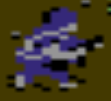
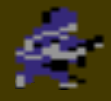
commando-moves

diff --git a/other/commando64/c64.js b/other/commando64/c64.js
@@ -1,6 +1,8 @@
 var Commodore64 = /** @class */ (function () {
     function Commodore64() {
         this.blink = true;
+        this.welcomeScreenTimeoutCounter = Commodore64.welcomeScreenTimeoutCounterMax;
+        this.commandoTimeoutCounter = Commodore64.commandoTimeoutCounterMax;
         this.tableContentHeader = [
             "&nbsp",
             "<center>    &nbsp**** COMMODORE 64 BASIC V2 ****&nbsp    </center>",
@@ -83,16 +85,63 @@ var Commodore64 = /** @class */ (function () {
             this.lastRenderTime = currentTime;
         }
         console.log("blink = " + this.blink);
-        requestAnimationFrame(function () { return _this.blinker(); });
+        this.animationFrameID = requestAnimationFrame(function () { return _this.blinker(); });
+        this.welcomeScreenTimeoutCounter--;
+        if (this.welcomeScreenTimeoutCounter < 0) {
+            cancelAnimationFrame(this.animationFrameID);
+            this.initGame();
+        }
     };
     Commodore64.prototype.drawKomandos = function () {
         var komandosCell = document.getElementById('row5col2');
         komandosCell.innerHTML = "<img src = \"resources/komandos.png\"/>";
         komandosCell.setAttribute("rowspan", "12");
     };
+    Commodore64.prototype.initLoader = function () {
+        var html = this.generateHtml();
+        var div = document.getElementById('commodore64');
+        var topBorderDiv = document.getElementById('top-border');
+        var bottomBorderDiv = document.getElementById('bottom-border');
+        div.innerHTML = html;
+        topBorderDiv.innerHTML = this.generateBorder();
+        bottomBorderDiv.innerHTML = this.generateBorder();
+        this.drawKomandos();
+        this.initBlinker();
+        this.blinker();
+    };
+    Commodore64.prototype.initGame = function () {
+        this.commandoTimeoutCounter = Commodore64.commandoTimeoutCounterMax;
+        var board = document.getElementById('commodore64');
+        board.innerHTML = "<img src = 'resources/board.png' style='width: 90%; height: 90%;'></img>";
+        board.innerHTML += "<img id='commando' src = 'resources/U.PNG'  style='position: absolute; top: 64%; left: 47%; z-index: 1;'></img>";
+        var commandoImg = document.getElementById('commando');
+        board.addEventListener('mousemove', function (event) {
+            var x = event.clientX;
+            var y = event.clientY;
+            var commandoX = 460;
+            var commandoY = 520;
+            if (x == commandoX)
+                x++;
+            var angle = Math.atan((y - commandoY) / (x - commandoX));
+            var url = '';
+            if (Math.abs(angle) > 1) {
+                url = "resources/U.PNG";
+            }
+            else if (angle > 0) {
+                url = "resources/LU.PNG";
+            }
+            else {
+                url = "resources/RU.PNG";
+            }
+            commandoImg.setAttribute("src", url);
+            console.log("Mouse is hovering over the board at coordinates (".concat(x, ", ").concat(y, ") angle = ").concat(angle));
+        });
+    };
     Commodore64.FPS = 2;
     Commodore64.BLUE = "#352879";
     Commodore64.LIGHTBLUE = "#6c5eb5";
+    Commodore64.welcomeScreenTimeoutCounterMax = 120;
+    Commodore64.commandoTimeoutCounterMax = 500;
     return Commodore64;
 }());
 var width = 800;
@@ -100,13 +149,4 @@ var height = 600;
 window.innerWidth = width;
 window.innerHeight = height;
 var commodore64 = new Commodore64();
-var html = commodore64.generateHtml();
-var div = document.getElementById('commodore64');
-var topBorderDiv = document.getElementById('top-border');
-var bottomBorderDiv = document.getElementById('bottom-border');
-div.innerHTML = html;
-topBorderDiv.innerHTML = commodore64.generateBorder();
-bottomBorderDiv.innerHTML = commodore64.generateBorder();
-commodore64.drawKomandos();
-commodore64.initBlinker();
-commodore64.blinker();
+commodore64.initLoader();

diff --git a/other/commando64/c64.ts b/other/commando64/c64.ts
@@ -2,6 +2,8 @@ class Commodore64 {
   static FPS = 2;
   static BLUE = "#352879";
   static LIGHTBLUE = "#6c5eb5";
+  static welcomeScreenTimeoutCounterMax = 120;
+  static commandoTimeoutCounterMax = 500;
 
   private tableContentHeader: string[];
   private tableContent: string[];
@@ -10,6 +12,9 @@ class Commodore64 {
   private canvas;
   private canvasContainer;
   private ctx;
+  private welcomeScreenTimeoutCounter = Commodore64.welcomeScreenTimeoutCounterMax;
+  private commandoTimeoutCounter = Commodore64.commandoTimeoutCounterMax;
+  private animationFrameID;
 
   constructor() {
     this.tableContentHeader = [
@@ -103,13 +108,64 @@ class Commodore64 {
 	}
 	
 	console.log("blink = " + this.blink);
-    requestAnimationFrame(() => this.blinker());
+    this.animationFrameID = requestAnimationFrame(() => this.blinker());
+	
+	this.welcomeScreenTimeoutCounter--;
+	
+	if (this.welcomeScreenTimeoutCounter < 0){
+		cancelAnimationFrame(this.animationFrameID);
+		this.initGame();
+	}
   }
   
   drawKomandos(){
 	let komandosCell = document.getElementById('row5col2');
 	komandosCell.innerHTML = "<img src = \"resources/komandos.png\"/>";
 	komandosCell.setAttribute("rowspan", "12");
+  }
+  
+  initLoader(){
+	const html = this.generateHtml();
+	const div = document.getElementById('commodore64');
+	const topBorderDiv = document.getElementById('top-border');
+	const bottomBorderDiv = document.getElementById('bottom-border');
+	div.innerHTML = html;
+	topBorderDiv.innerHTML = this.generateBorder();
+	bottomBorderDiv.innerHTML = this.generateBorder();
+	this.drawKomandos();
+	this.initBlinker();
+	this.blinker();
+  }
+  
+  initGame(){
+	this.commandoTimeoutCounter = Commodore64.commandoTimeoutCounterMax;
+	const board = document.getElementById('commodore64');
+	board.innerHTML = "<img src = 'resources/board.png' style='width: 90%; height: 90%;'></img>";
+	board.innerHTML += "<img id='commando' src = 'resources/U.PNG'  style='position: absolute; top: 64%; left: 47%; z-index: 1;'></img>";
+	
+	const commandoImg = document.getElementById('commando');
+	
+	board.addEventListener('mousemove', (event) => {
+		var x = event.clientX;
+		const y = event.clientY;
+		
+		const commandoX = 460;
+		const commandoY = 520;
+	
+		if (x == commandoX) x++;		
+		var angle = Math.atan((y - commandoY)/(x - commandoX));
+		
+		var url = "resources/RU.PNG";		
+		if (Math.abs(angle) > 1){
+			url = "resources/U.PNG";
+		}
+		else if (angle > 0){
+			url = "resources/LU.PNG";
+		}			
+		commandoImg.setAttribute("src", url);
+	
+		console.log(`Mouse is hovering over the board at coordinates (${x}, ${y}) angle = ${angle}`);
+	});
   }
 }
 
@@ -120,13 +176,4 @@ window.innerWidth = width;
 window.innerHeight = height;
 
 const commodore64 = new Commodore64();
-const html = commodore64.generateHtml();
-const div = document.getElementById('commodore64');
-const topBorderDiv = document.getElementById('top-border');
-const bottomBorderDiv = document.getElementById('bottom-border');
-div.innerHTML = html;
-topBorderDiv.innerHTML = commodore64.generateBorder();
-bottomBorderDiv.innerHTML = commodore64.generateBorder();
-commodore64.drawKomandos();
-commodore64.initBlinker();
-commodore64.blinker();
+commodore64.initLoader();
